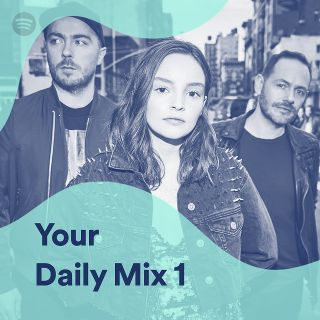
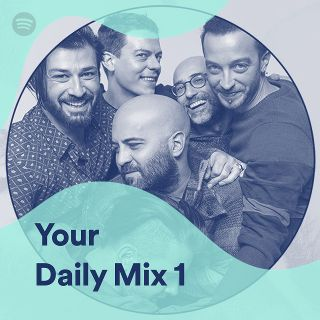
Finished .box_main

diff --git a/index.html b/index.html
@@ -89,29 +89,29 @@
                 <h2>Recently played</h2>
                 <div class="row">
                   <a class="box_music" href="#">
-                      <img src="img/album/the-dark-side-of-the-moon.jpg" alt="The Dark Side of The Moon">
-                      <h3>The Dark Side of The Moon</h3>
-                      <h4>Pink Floyd</h4>
+                      <img src="img/album/loud-like-love.jpg" alt="Loud Like Love">
+                      <h3>Loud Like Love</h3>
+                      <h4>Placebo</h4>
                   </a>
                   <a class="box_music" href="#">
-                      <img src="img/album/the-dark-side-of-the-moon.jpg" alt="The Dark Side of The Moon">
-                      <h3>The Dark Side of The Moon</h3>
-                      <h4>Pink Floyd</h4>
+                      <img src="img/album/love-is-dead.jpg" alt="Love is Dead">
+                      <h3>Love is Dead</h3>
+                      <h4>CHVRCHES</h4>
                   </a>
                   <a class="box_music" href="#">
-                      <img src="img/album/the-dark-side-of-the-moon.jpg" alt="The Dark Side of The Moon">
-                      <h3>The Dark Side of The Moon</h3>
-                      <h4>Pink Floyd</h4>
+                      <img src="img/album/love.jpg" alt="Love">
+                      <h3>Love</h3>
+                      <h4>The Giornalisti</h4>
                   </a>
                   <a class="box_music" href="#">
-                      <img src="img/album/the-dark-side-of-the-moon.jpg" alt="The Dark Side of The Moon">
-                      <h3>The Dark Side of The Moon</h3>
-                      <h4>Pink Floyd</h4>
+                      <img src="img/album/random-access-memory.jpg" alt="Random Access Memory">
+                      <h3>Random Access Memory</h3>
+                      <h4>Daft Punk</h4>
                   </a>
                   <a class="box_music" href="#">
-                      <img src="img/album/the-dark-side-of-the-moon.jpg" alt="The Dark Side of The Moon">
-                      <h3>The Dark Side of The Moon</h3>
-                      <h4>Pink Floyd</h4>
+                      <img src="img/album/the-2nd-law.jpg" alt="The 2nd Law">
+                      <h3>The 2nd Law</h3>
+                      <h4>Muse</h4>
                   </a>
                   <a class="box_music" href="#">
                       <img src="img/album/the-dark-side-of-the-moon.jpg" alt="The Dark Side of The Moon">
@@ -128,16 +128,16 @@
                       <h3>Death Cab fot Cutie</h3>
                   </a>
                   <a class="box_music" href="#">
-                      <img src="img/artists/death-cab-for-cutie.jpg" alt="Death Cab fot Cutie">
-                      <h3>Death Cab fot Cutie</h3>
+                      <img src="img/artists/florence-the-machine.jpg" alt="Florence + The Machine">
+                      <h3>Florence + The Machine</h3>
                   </a>
                   <a class="box_music" href="#">
-                      <img src="img/artists/death-cab-for-cutie.jpg" alt="Death Cab fot Cutie">
-                      <h3>Death Cab fot Cutie</h3>
+                      <img src="img/artists/imagine-dragons.jpg" alt="Imagine Dragons">
+                      <h3>Imagine Dragons</h3>
                   </a>
                   <a class="box_music" href="#">
-                      <img src="img/artists/death-cab-for-cutie.jpg" alt="Death Cab fot Cutie">
-                      <h3>Death Cab fot Cutie</h3>
+                      <img src="img/artists/the-xx.jpg" alt="The xx">
+                      <h3>The xx</h3>
                   </a>
                 </div>
               </div>
@@ -149,11 +149,11 @@
                       <h3>Daily Mix 1</h3>
                   </a>
                   <a class="box_music" href="#">
-                      <img src="img/daily-mix/daily-mix-1.jpg" alt="Daily Mix 1">
-                      <h3>Daily Mix 1</h3>
+                      <img src="img/daily-mix/daily-mix-2.jpg" alt="Daily Mix 2">
+                      <h3>Daily Mix 2</h3>
                   </a><a class="box_music" href="#">
-                      <img src="img/daily-mix/daily-mix-1.jpg" alt="Daily Mix 1">
-                      <h3>Daily Mix 1</h3>
+                      <img src="img/daily-mix/daily-mix-3.jpg" alt="Daily Mix 3">
+                      <h3>Daily Mix 3</h3>
                   </a>
                 </div>
               </div>

diff --git a/css/style.css b/css/style.css
@@ -271,10 +271,10 @@ h1, h2, h3, h4, a {
 .main .box_main .music .box_music {
   position: relative;
   display: inline-block;
-  width: calc(100% / 6 - 20px);
-  min-width: 120px;
-  max-width: 200px;
-  margin: 10px;
+  /* width: calc(100% / 6 - 20px); */
+  /* min-width: 120px; */
+  /* max-width: 200px; */
+  /* margin: 10px; */
   border-radius: 10px;
   background-color: rgb(35, 35, 35);
   text-align: center;
@@ -385,12 +385,69 @@ h1, h2, h3, h4, a {
   .upgrade {
     width: calc(100% - 60px);
   }
+
+  .main .box_main .music .row {
+    justify-content: space-around;
+  }
+
+  .main .box_main .music .box_music {
+    width: calc(100% / 2 - 20px);
+    min-width: 100px;
+    max-width: 150px;
+    margin: 5px;
+  }
 }
 
 /* small > */
 @media screen and (min-width: 576px) {
   .upgrade {
     width: calc(100% - 230px);
+  }
+
+  .main .box_main .music .row {
+    justify-content: space-around;
+  }
+
+  .main .box_main .music .box_music {
+    width: calc(100% / 3 - 20px);
+    min-width: 118px;
+    max-width: 130px;
+    margin: 5px;
+  }
+}
+
+/* medium > */
+@media screen and (min-width: 768px) {
+  .main .box_main .music .row {
+    justify-content: flex-start;
+  }
+
+  .main .box_main .music .box_music {
+    width: calc(100% / 4 - 20px);
+    min-width: 118px;
+    max-width: 130px;
+    margin: 5px;
+  }
+}
+
+/* large > */
+@media screen and (min-width: 992px) {
+  .main .box_main .music .row {
+    justify-content: flex-start;
+  }
+
+  .main .box_main .music .box_music {
+    width: calc(100% / 6 - 20px);
+    min-width: 120px;
+    max-width: 150px;
+    margin: 10px;
+  }
+}
+
+/* extra large > */
+@media screen and (min-width: 1200px) {
+  .main .box_main .music .row {
+    justify-content: flex-start;
   }
 }
 
